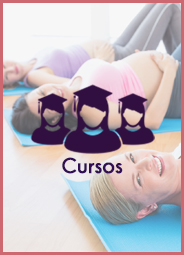
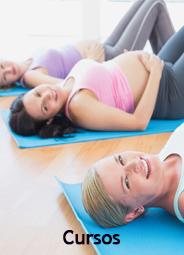
c

diff --git a/index.html b/index.html
@@ -108,34 +108,39 @@
                         <div class="wrap">
                             <div id="showcase" class="noselect" style="overflow: visible !important;">
                                 <div class="card">
-                                  <a href="calendario.html"><img src="images/calendario.png"></a>
+                                  <a href="calendario.html"><img src="images/semanaasemana.jpg"></a>
                                 </div>
                                 <div class="card">
                                   <div>
-                                    <a href="calculadoras.html"><img src="images/calculadoras.png"></a>
+                                    <a href="calculadoras.html"><img src="images/calculadoras.jpg"></a>
                                   </div>
                                 </div>
                                 <div class="card">
-                                  <a href="cursos.html"><img src="images/cursos.png"></a> 
+                                  <a href="cursos.html"><img src="images/cursos.jpg"></a> 
                                 </div>
                                 <div class="card">
-                                  <a href="articulos.html"><img src="images/articulos.png"></a>
+                                  <a href="#"><img src="images/pauta2.jpg"></a>
+                                </div>
+                                <div class="card">
+                                  <a href="articulos.html"><img src="images/articulos.jpg"></a>
                                   
                                 </div>
                                 <div class="card">
-                                  <a href="albumfotos.html"><img src="images/albumfotos.png"></a>
+                                  <a href="albumfotos.html"><img src="images/misfotos.jpg"></a>
                                   
                                 </div>
                                 <div class="card">
-                                  <a href="videos.html"><img src="images/videos.png"></a>
+                                  <a href="videos.html"><img src="images/videos.jpg"></a>
                                   
                                 </div>
                                 <div class="card">
-                                  <a href="#"><img src="images/pauta1.png"></a>
+                                  <a href="diario.html"><img src="images/diario.jpg"></a>
+                                  
                                 </div>
                                 <div class="card">
-                                  <a href="#"><img src="images/pauta2.png"></a>
+                                  <a href="#"><img src="images/pauta1.jpg"></a>
                                 </div>
+                                
                             </div>
                         </div>
                   </div>
